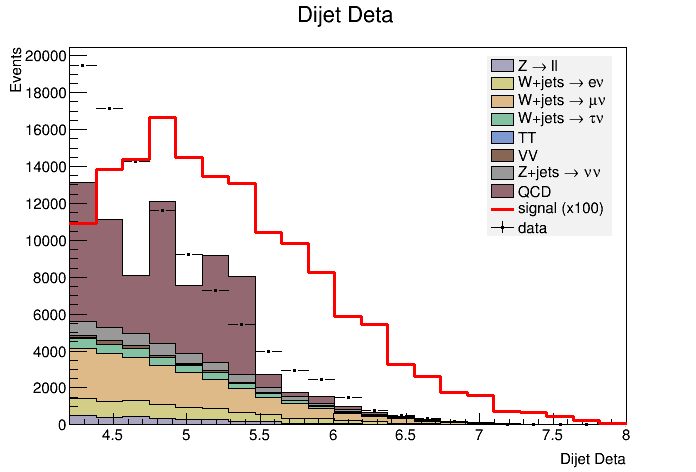
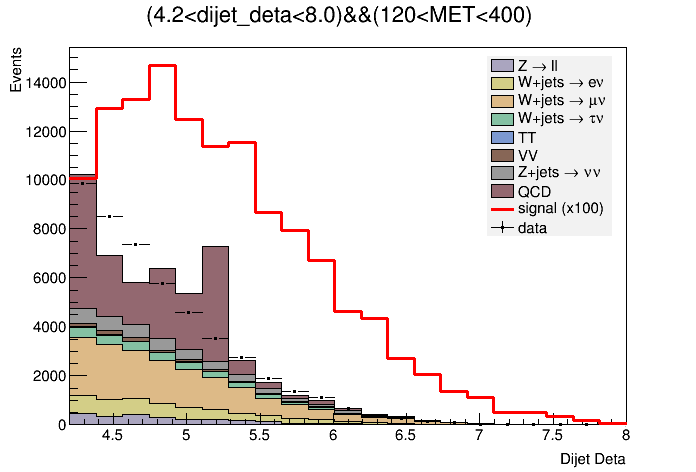
single cuts on all 7 variable with all permutations

diff --git a/src/variable.cpp b/src/variable.cpp
@@ -78,7 +78,7 @@ std::string Variable::build_title_string(bool with_cut)
   ti_string += ")";
 
   ti_string +="&&(";
-  ti_string += "100<MET<400";
+  ti_string += "800.0<dijet_M<2000.0";
   ti_string += ")";
 
   }
@@ -94,50 +94,43 @@ std::string Variable::build_selection_string(bool with_cut, bool is_signal)
 
   if (with_cut) {
 
-    sel_string += "((abs(metnomuons)>120";
+    /*sel_string += "((abs(metnomuons)>120";
     sel_string += ")";
     sel_string +="&&(";
     sel_string += "abs(metnomuons)<400";
-    sel_string += ")";
+    sel_string += ")";*/
 
-    /*sel_string +="&&(";
-    sel_string += "sqrt_ht>9.0";
+    /*sel_string += "((sqrt_ht>9.0";
     sel_string += ")";
     sel_string +="&&(";
     sel_string += "sqrt_ht<18.0";
     sel_string += ")";*/
 
-    /*sel_string +="&&(";
-    sel_string += "dijet_M>800.0";
+    sel_string += "((dijet_M>800.0";
     sel_string += ")";
     sel_string +="&&(";
     sel_string += "dijet_M<2000.0";
-    sel_string += ")";*/
+    sel_string += ")";
 
-    /*sel_string +="&&(";
-    sel_string += "dijet_deta>4.2";
+    /*sel_string += "((dijet_deta>4.2";
     sel_string += ")";
     sel_string +="&&(";
     sel_string += "dijet_deta<8.0";
     sel_string += ")";*/
-
    
-    /*sel_string +="&&(";
-    sel_string += "abs(forward_tag_eta)>1.8";
+    /* sel_string += "((abs(forward_tag_eta)>1.8";
     sel_string += ")";
     sel_string +="&&(";
     sel_string += "abs(forward_tag_eta)<5.0";
     sel_string += ")";*/
 
-    /*sel_string +="&&(";
-    sel_string += "metnomu_significance>3.5";
+    /*sel_string += "((metnomu_significance>3.5";
     sel_string += ")";
     sel_string +="&&(";
     sel_string += "metnomu_significance<12.0";
     sel_string += ")";*/
 
-    /*sel_string +="&&(";
-    sel_string += "abs(alljetsmetnomu_mindphi) >0.5";
+    /*sel_string += "((abs(alljetsmetnomu_mindphi) >0.5";
     sel_string += ")";
     sel_string +="&&(";
     sel_string += "abs(alljetsmetnomu_mindphi) <3.0";

diff --git a/src/histo_plot.cpp b/src/histo_plot.cpp
@@ -20,6 +20,7 @@ void HistoPlot::draw_plot(Variable* var, std::vector<DataChain*> bg_chains,
   signal_histo->Draw("SAME");
 
   const char* x_axis_label =var->name_styled;
+
   style_stacked_histo(&stack, x_axis_label);
 
   TH1F* plot_histos[3] = {(TH1F*)(stack.GetStack()->Last()), data_histo, signal_histo};
@@ -36,9 +37,9 @@ void HistoPlot::draw_plot(Variable* var, std::vector<DataChain*> bg_chains,
 
 THStack HistoPlot::draw_stacked_histo(TLegend* legend, Variable* var, std::vector<DataChain*> bg_chains, bool with_cut)
 {
-  const char* var_name = var->name_styled;
+  std::string var_str = var->build_title_string(with_cut);
+  const char* var_name   = var_str.c_str();
   THStack stack(var_name, var_name);
-
   for(int i = 0; i < bg_chains.size(); i++) {
     TH1F* single_bg_histo = draw_background(bg_chains[i], var, colours()[i], with_cut);
     stack.Add(single_bg_histo);
@@ -341,7 +342,7 @@ float HistoPlot::get_data_error(TH1F* histo, int bin)
 
 std::string HistoPlot::build_file_name(Variable* variable, bool with_cut) 
 {
-  std::string file_name("metc/");
+  std::string file_name("dijm/");
   file_name.append(variable->name);
 
   if (with_cut)
@@ -353,7 +354,7 @@ std::string HistoPlot::build_file_name(Variable* variable, bool with_cut)
     file_name += "_";
     file_name.append(variable->x_max_cut);
     file_name += "+";
-    file_name.append("met");
+    file_name.append("dijm");
 
   }
   else

diff --git a/src/main.cpp b/src/main.cpp
@@ -50,7 +50,7 @@ Variable* var_arr[] = {jet1_pt, jet2_eta, forward_tag_eta, central_tag_eta, dije
 
   std::vector<DataChain*> bg_chains (myDataChain, myDataChain + sizeof(myDataChain) / sizeof(myDataChain[0]));
    int j;
-   int tv_arr[7]={2,4,8,11,17,18/*,21*/};  //forward tag eta, dijet deta, met significance,sqrt ht, all jets met min dphi, dijet M,met
+   int tv_arr[7]={2,4,8,11,17/*,18*/,21};  //forward tag eta, dijet deta, met significance,sqrt ht, all jets met min dphi, dijet M,met
   for (int i = 0; i < 7/*variables.size()*/; i++) {
           j=tv_arr[i];
 	  HistoPlot::draw_plot(variables[j], bg_chains, signal_chain, data_chain, true);
